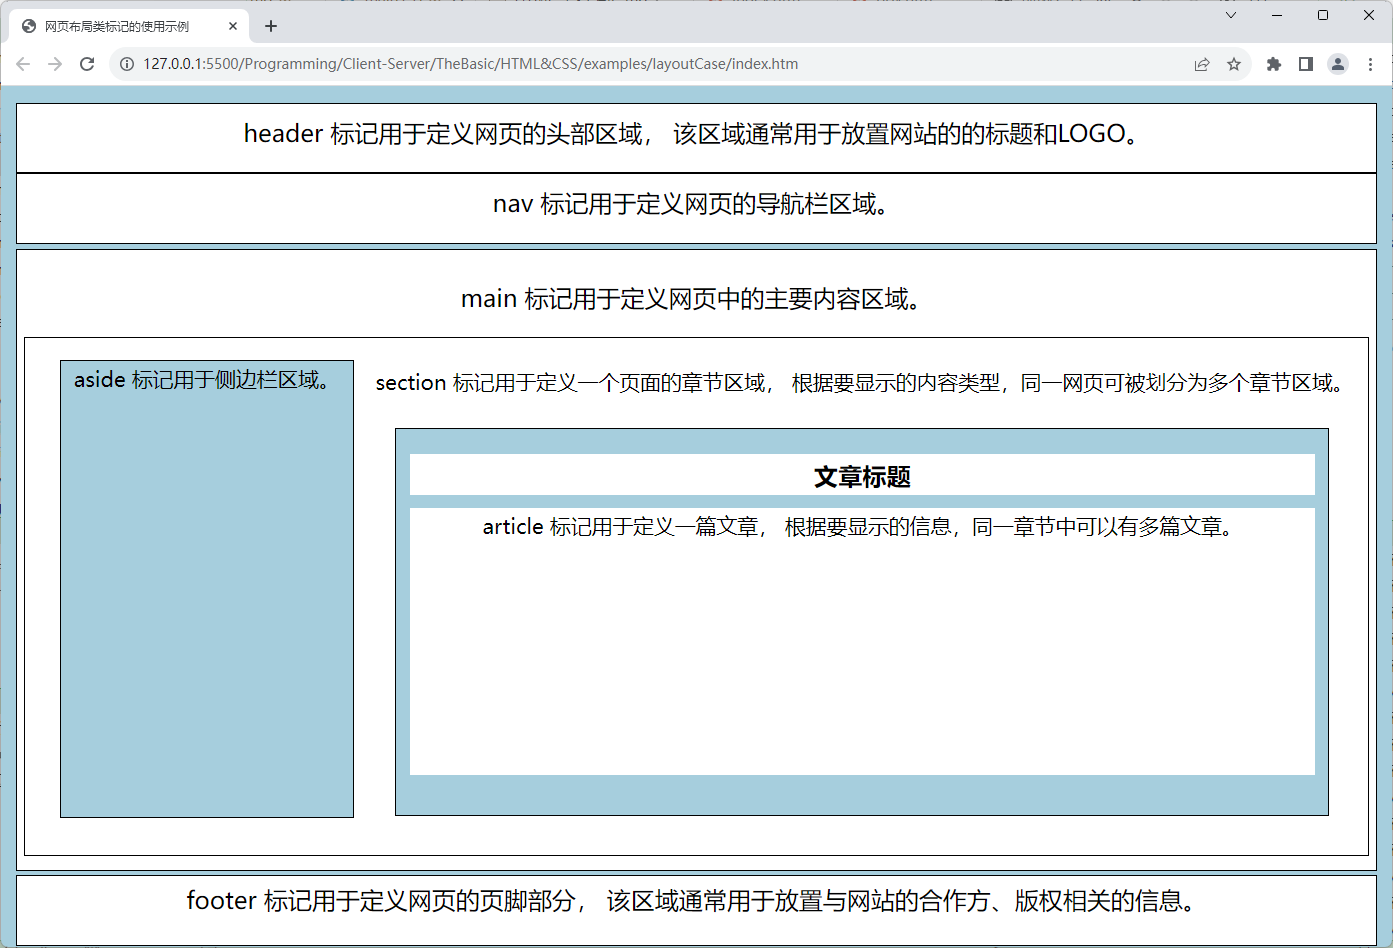
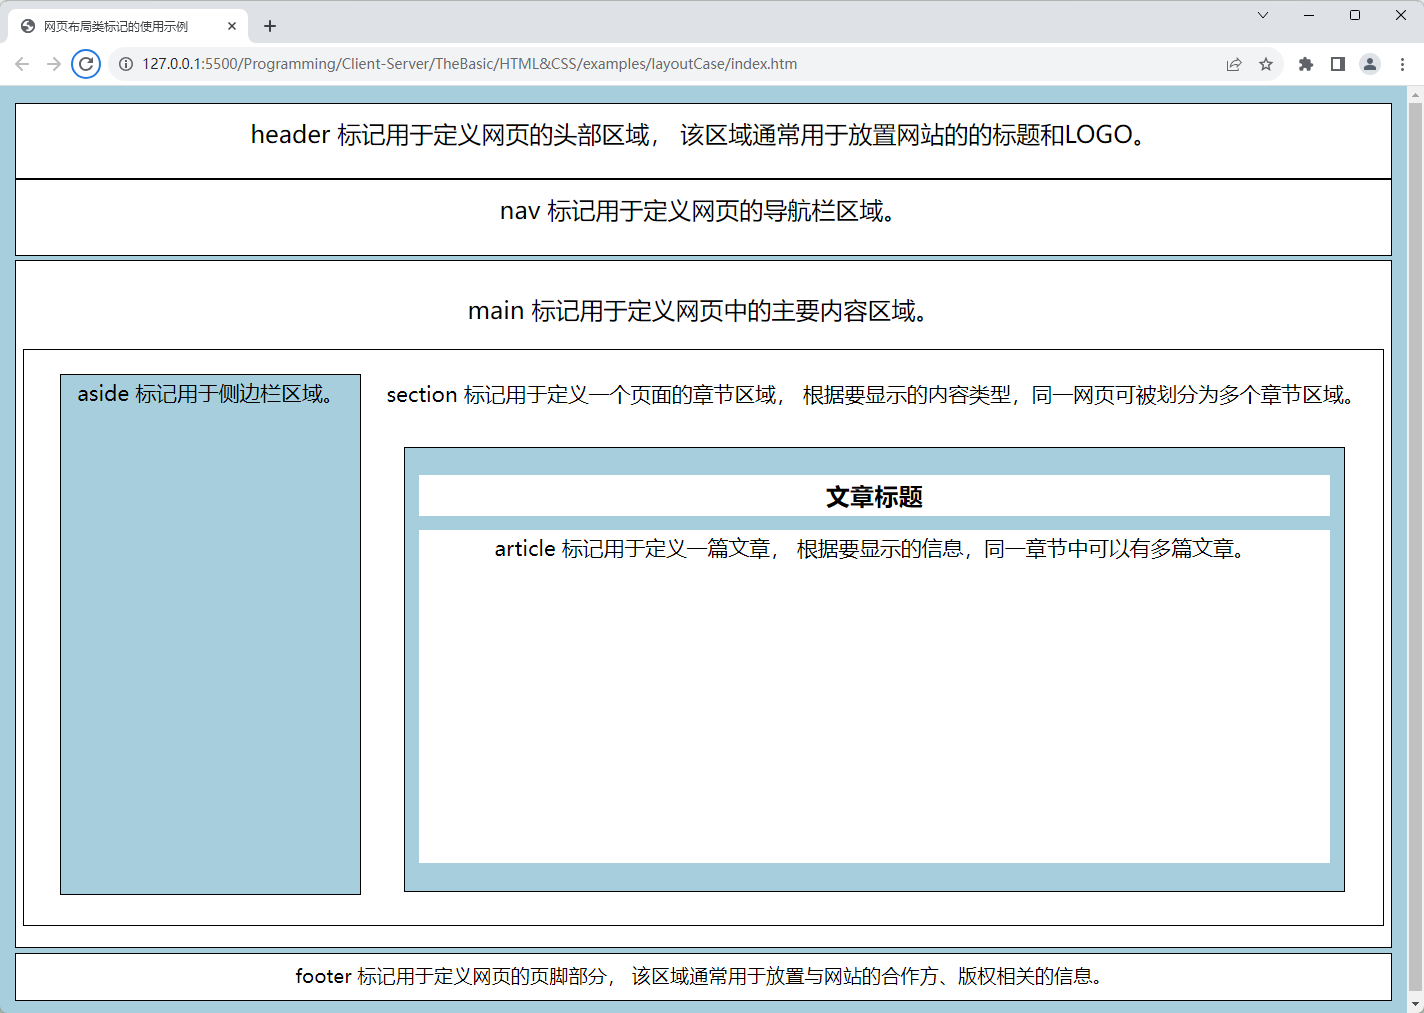
'整理与HTML+CSS基础相关的笔记：CSS部分'

Changed region(s): [[0.0, 0.0, 1.0, 1.0]]

diff --git a/Programming/Client-Server/TheBasic/HTML&CSS/examples/layoutCase/styles/main.css b/Programming/Client-Server/TheBasic/HTML&CSS/examples/layoutCase/styles/main.css
@@ -1,27 +1,10 @@
-/* 只有`:root`伪类选择器的自定义属性可被全局使用，
- * 一般选择器的自定义属性只能在被其匹配的元素中使用
- */
-:root {
-    --primary-bg-color: rgb(164, 205, 223);
-}
-
-/* 为了在后续代码中顺利使用相对尺寸单位，
- *  在这里必须要先利用html根标记的选择器建立一个基准
- */
-html {
-    /* 将网页的基准高度设置为浏览器的视口高度*/
-    height: 100%; 
-    /* 将网页的基准宽度设置为浏览器的视口宽度 */
-    width: 100%;
-    /* 设置网页使用的默认字体大小为16个像素单位*/
-    font-size: 16px;
-}
-
 /* 匹配body标签，用于定义整个网页所在区域的样式 */
 body {
-    /* 设置被匹配标签所在元素的高度：为网页基准高度的90% */
-    height: 90%;
-    /* 设置被匹配标签所在元素的背景色 */
+    /* 设置网页使用的默认字体 */
+    font-family: "Microsoft Yahei", Helvetica, Arial, sans-serif;
+    font-size: 16px;
+    /* 设置网页使用的主背景色并将其保存为变量 */
+    --primary-bg-color: rgb(164, 205, 223);
     background-color: var(--primary-bg-color);
     /* 设置被匹配标签所在元素的内边距 */
     padding: 1vh 0.5vw;
@@ -49,7 +32,7 @@ nav {
 
 /* 匹配main标签，用于定义网页主要内容区域的样式 */
 main {
-    height: 70vh;
+    height: 72vh;
     background-color: white;
     margin: 0.5vh 0;
     padding: 1vh 0.5vw;
@@ -58,9 +41,9 @@ main {
     text-align: center;
 }
 
-/* 匹配section标签，用于定义网页主体区域的样式 */
+/* 匹配section标签，用于定义网页中各个分区域的样式 */
 section {
-    height: 58vh;
+    height: 60vh;
     background-color: white;
     margin: 0.5vh 0vw;
     padding: 1vh 1vw;
@@ -72,7 +55,7 @@ section {
 /* 匹配aside标签，用于定义网页侧边栏区域的样式 */
 aside {
     float: left;
-    height: 52vh;
+    height: 55vh;
     width: 20vw;
     background-color: var(--primary-bg-color);
     margin: 1.5vh 1.5vw;
@@ -85,10 +68,10 @@ aside {
 /* 匹配article标签，用于网页中某一特定内容区域的样式 */
 article {
     float: left;
-    height: 42vh;
-    width: 66vw;
+    height: 45vh;
+    width: 65vw;
     background-color: var(--primary-bg-color);
-    margin: 1.5vh 1.3vw;
+    margin: 2vh 1.5vw;
     padding: 1.4vh 0.5vw;
     border: 1px solid;
     font-size: 1.3rem;
@@ -102,7 +85,7 @@ article h1 {
 }
 /* 匹配article标签下的p标签 */
 article p {
-    height: 30vh;
+    height: 35vh;
     background-color: white;
     margin: 1.5vh 0.5vw;
     padding: 0.5vh 0.5vw;
@@ -110,10 +93,10 @@ article p {
 
 /* 匹配footer标签，用于定义网页底部区域的样式 */
 footer {
-    height: 6vh;
+    height: 3vh;
     background-color: white;
     padding: 1vh 0.5vw;
     border: 1px solid;
-    font-size: 1.5rem;
+    font-size: 1.2rem;
     text-align: center;
 }

diff --git a/Programming/Client-Server/TheBasic/HTML&CSS/CSS 学习笔记.md b/Programming/Client-Server/TheBasic/HTML&CSS/CSS 学习笔记.md
@@ -808,9 +808,9 @@ z-index: 2;
 
 ## 要解决的问题
 
-下面先来介绍在网页设计工作中首先要解决的布局问题。
+在网页设计过程中，网页的整体布局安排、配色方案的设计、图文信息的排版、用户交互类元素在网页上的具体位置以及这些元素彼此之间的距离都是设计师们几乎一定会遇到的问题。在这一节中，我们将逐一为读者介绍这些问题的解决方案，以及这些方案所体现出来的CSS设计思维。下面，让我们从网页设计工作中首先要解决的整体布局问题开始。
 
-### 网页布局问题
+### 网页整体布局
 
 在网页设计工作中，页面的整体布局安排是设计师们首先要解决的一个关键问题，因为这直接关系到布局类元素、图文类元素、用户交互类元素在网页上的具体位置与呈现范围，以及这些元素彼此之间的距离。
 
@@ -818,7 +818,7 @@ z-index: 2;
 
 在PC端，显示设备的大小相对来说是较为固定的，因此设计师们可以较为放心的对网页进行整体布局，比如将网页分为头部、主体、底部三个部分，再对每个部分进行进一步的划分，比如头部可以分为导航栏、logo、搜索栏等，主体部分可以分为内容区、侧边栏等。底部则可以分为版权声明、页脚等。在这一节中，我们将通过模拟一个简单的页面设计过程来为读者介绍如何在面向PC端的网页设计工作中使用CSS语言。在通常情况下，我们在PC端创建一个网页时大致会执行以下步骤：
 
-1. 先创建一个HTML文档，并用HTML 5提供的布局类标记定义好网页的文档结构和内容元素，例如像这样：
+1. 先创建一个HTML文档，并用HTML 5提供的布局类标记定义好网页的文档结构和内容元素，我们在《[[HTML 学习笔记]]》一文中曾经示范过这些标记的使用方法，该示例的具体代码如下：
 
    ```html
    <!DOCTYPE html>
@@ -859,12 +859,28 @@ z-index: 2;
     </html>
    ```
 
-2. 然后基于上述HTML文档中定义的页面元素，我们来依次定义它们的样式，首先是`<header>`标记所定义的头部区域的样式，我们在这里可以为它编写如下样式：
+2. 现在，我们要做的就是基于上述HTML文档中定义的页面元素来依次定义它们的样式，首先是`<body>`标记所定义的网页主体区域的样式，我们在这里可以定义一些适用于整个页面的通用样式，例如像这样:
+
+   ```css
+    /* 匹配body标签，用于定义整个网页所在区域的样式 */
+    body {
+        /* 设置网页使用的默认字体 */
+        font-family: "Microsoft Yahei", Helvetica, Arial, sans-serif;
+        font-size: 16px;
+        /* 设置网页使用的主背景色并将其保存为变量 */
+        --primary-bg-color: rgb(164, 205, 223);
+        background-color: var(--primary-bg-color);
+        /* 设置被匹配标签所在元素的内边距 */
+        padding: 1vh 0.5vw;
+    }
+   ```
+
+3. 在设置完全局样式之后，接下来就可以开始设置`<header>`标记所定义的头部区域的样式了，我们在这里可以为它编写如下样式：
 
    ```css
     /* 匹配header标签，用于定义网页头部区域的样式 */
     header {
-        height: 10vh;
+        height: 5vh;
         background-color: white;
         padding: 1.5vh;
         font-size: 1.5rem;
@@ -873,26 +889,26 @@ z-index: 2;
     }
    ```
 
-3. 接下来要做的是定义`<nav>`标记所定义的导航栏的样式，在这里我们可以为它编写如下样式：
+4. 再接下来要做的是定义`<nav>`标记所定义的导航栏的样式，在这里我们可以为它编写如下样式：
 
    ```css
     /* 匹配nav标签，用于定义网页导航栏区域的样式 */
-   nav {
+    nav {
         height: 5vh;
         background-color: white;
         padding: 1.5vh;
         border: 1px solid;
         font-size: 1.5rem;
         text-align: center;
-   }
+    }
    ```
 
-4. 接着是`<main>`标记所定义的网页主体区域及其内部元素的样式，在这里我们可以为它编写如下样式：
+5. 接着，就轮到由`<main>`标记所定义的网页主体区域及其内部元素的样式了，这里包括网页中的各个分区域、侧边栏区域、文章区域（包括标题与段落）等元素，我们在这里可以为它编写如下样式：
 
    ```css
     /* 匹配main标签，用于定义网页主要内容区域的样式 */
     main {
-        height: 70vh;
+        height: 72vh;
         background-color: white;
         margin: 0.5vh 0;
         padding: 1vh 0.5vw;
@@ -901,9 +917,9 @@ z-index: 2;
         text-align: center;
     }
 
-    /* 匹配section标签，用于定义网页主体区域的样式 */
+    /* 匹配section标签，用于定义网页中各个分区域的样式 */
     section {
-        height: 58vh;
+        height: 60vh;
         background-color: white;
         margin: 0.5vh 0vw;
         padding: 1vh 1vw;
@@ -915,7 +931,7 @@ z-index: 2;
     /* 匹配aside标签，用于定义网页侧边栏区域的样式 */
     aside {
         float: left;
-        height: 52vh;
+        height: 55vh;
         width: 20vw;
         background-color: var(--primary-bg-color);
         margin: 1.5vh 1.5vw;
@@ -928,10 +944,10 @@ z-index: 2;
     /* 匹配article标签，用于网页中某一特定内容区域的样式 */
     article {
         float: left;
-        height: 42vh;
-        width: 66vw;
+        height: 45vh;
+        width: 65vw;
         background-color: var(--primary-bg-color);
-        margin: 1.5vh 1.3vw;
+        margin: 2vh 1.5vw;
         padding: 1.4vh 0.5vw;
         border: 1px solid;
         font-size: 1.3rem;
@@ -945,30 +961,35 @@ z-index: 2;
     }
     /* 匹配article标签下的p标签 */
     article p {
-        height: 30vh;
+        height: 35vh;
         background-color: white;
         margin: 1.5vh 0.5vw;
         padding: 0.5vh 0.5vw;
     }
     ```
 
-5. 最后，我们来定义`<footer>`标记所定义的网页页脚区域样式，在这里我们可以为它编写如下样式：
+6. 最后，让我们来定义一下`<footer>`标记所定义的网页页脚区域样式，在这里我们可以为它编写如下样式：
 
    ```css
     /* 匹配footer标签，用于定义网页底部区域的样式 */
     footer {
-        height: 6vh;
+        height: 3vh;
         background-color: white;
         padding: 1vh 0.5vw;
         border: 1px solid;
-        font-size: 1.5rem;
+        font-size: 1.2rem;
         text-align: center;
     }
    ```
 
-6. 在将上述HTML+CSS代码保存为相应类型的文件之后（这些代码被保存在本笔记文件所在目录下的`examples/layoutCase/styles`目录中），就可以在用网页浏览器中打开这个网页时看到如图1所示的布局效果。
+7. 在将上述HTML+CSS代码保存为相应类型的文件之后（这些代码被保存在本笔记文件所在目录下的`examples/layoutCase/styles`目录中），就可以在用网页浏览器中打开这个网页时看到如下图所示的布局效果。
 
-    ![图1](./img/html&css/1.png)
+    ![PC端网页整体布局示例](./img/html&css/1.png)
+
+从上述示例的效果图中可以看出，在CSS的视角下，网页的外观样式模型主要由一系列元素盒子组成，这些盒子之间有些是相互包裹的上下层关系，有些则是属于同一层级的横向或纵向排列关系。设计师们在设计网页的整体布局时要思考的问题主要是：
+
+1. 如何基于元素的盒模型概念设置好它们的内外边距（并在必要时设置边框）。
+2. 如何基于网页要显示的内容让这些元素盒子以合适的大小显示在合适的位置上。
 
 #### 移动端的网页布局
 
